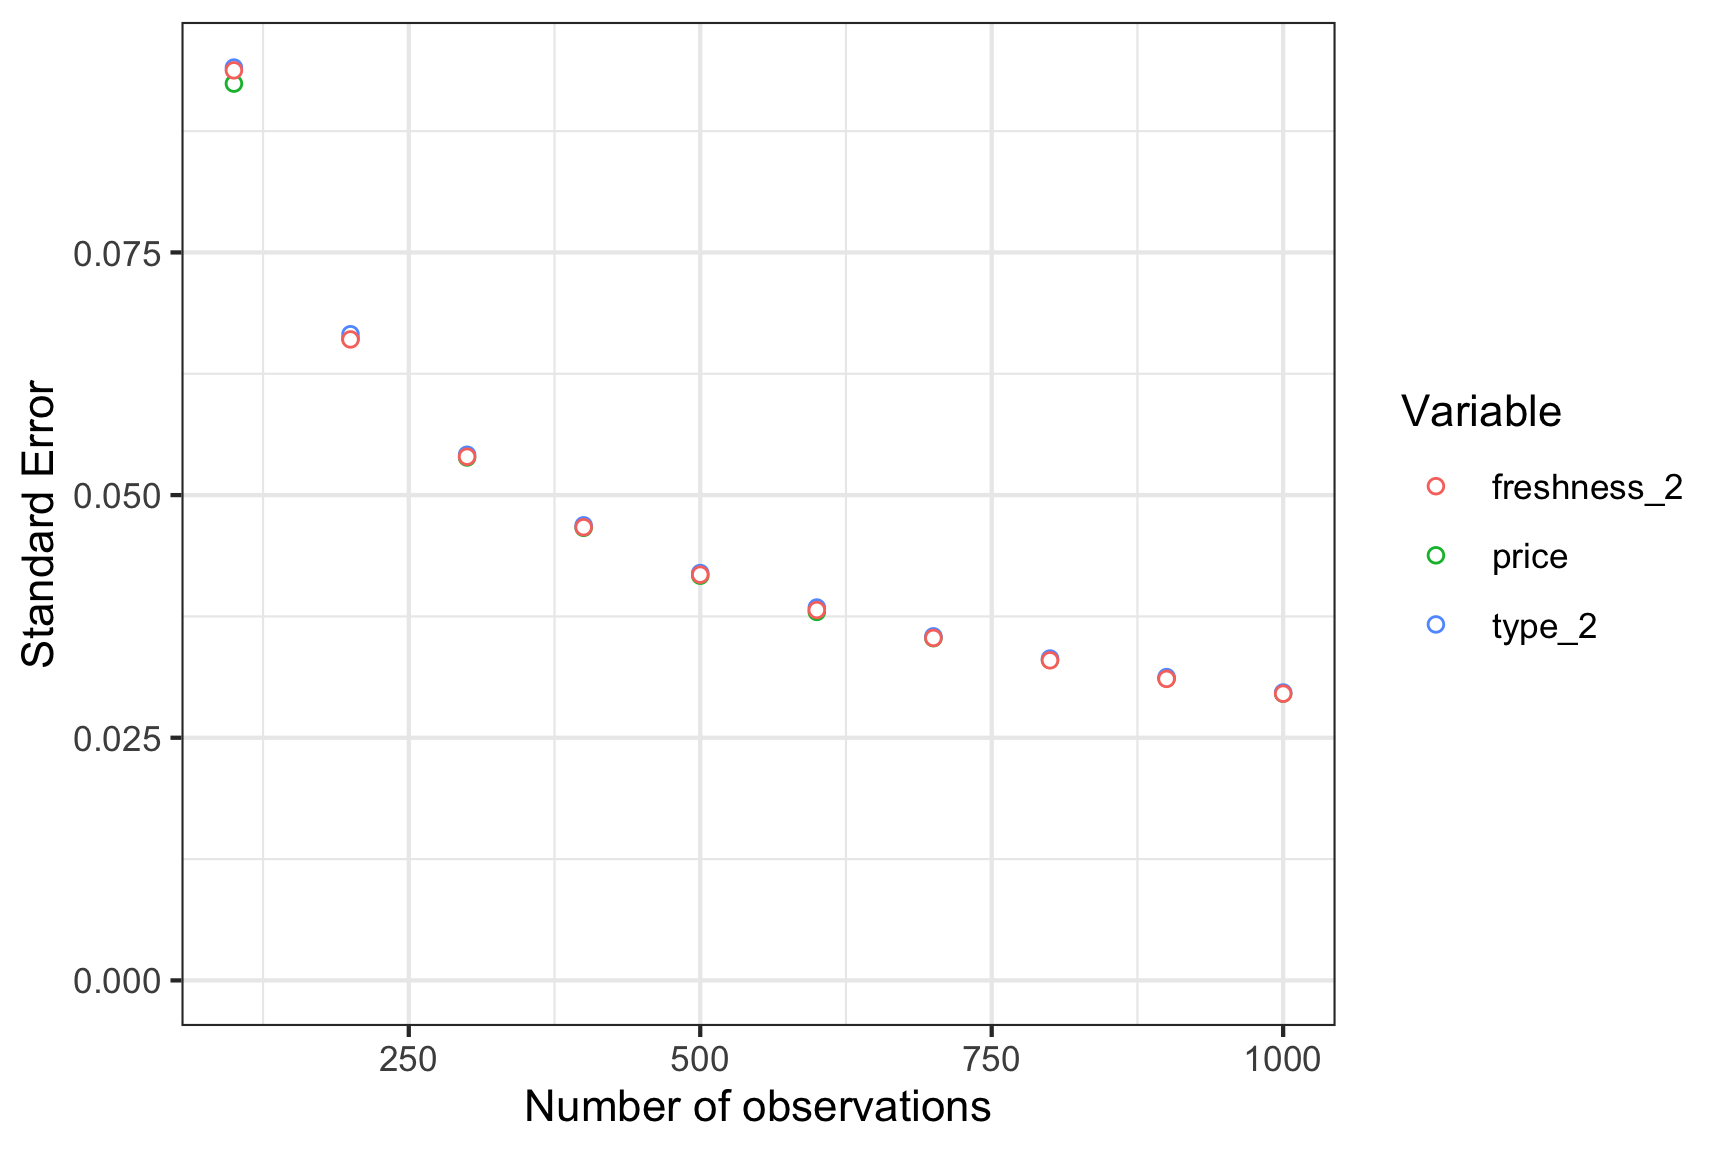
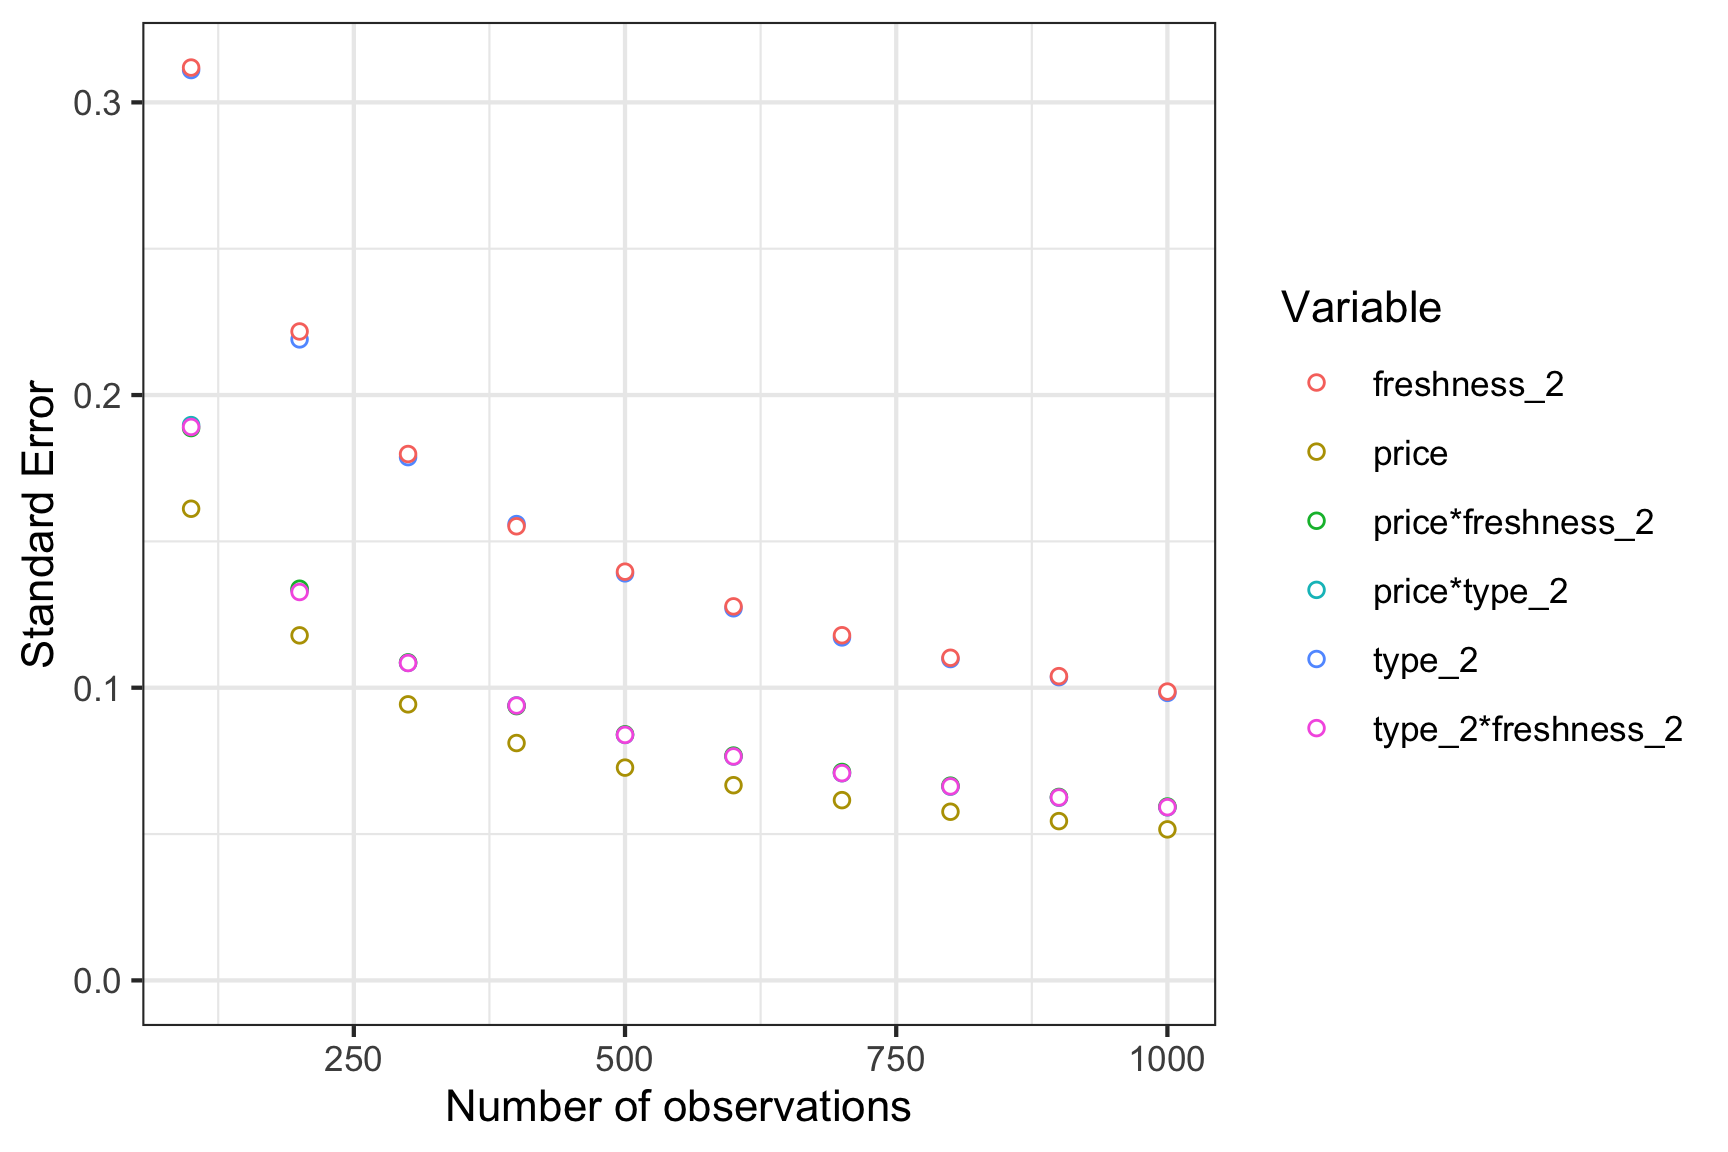
updated documentation for v0.0.2 release

diff --git a/README.md b/README.md
@@ -137,18 +137,19 @@ results <- sampleSizer(
     survey   = survey,
     parNames = c('price', 'type', 'freshness'),
     parTypes = c('c', 'd', 'd'), # Set continuous vs. discrete variables
+    interactions = TRUE, # Add interactions between each attribute
     nbreaks  = 10
 )
 
 # Preview results
 head(results)
-#>   size         se        coef
-#> 1  100 0.09239510       price
-#> 2  100 0.09404767      type_2
-#> 3  100 0.09376153 freshness_2
-#> 4  200 0.06612120       price
-#> 5  200 0.06657439      type_2
-#> 6  200 0.06603612 freshness_2
+#>   size        se               coef
+#> 1  100 0.1611530              price
+#> 2  100 0.3110412             type_2
+#> 3  100 0.3118941        freshness_2
+#> 4  100 0.1897302       price*type_2
+#> 5  100 0.1887158  price*freshness_2
+#> 6  100 0.1891048 type_2*freshness_2
 ```
 
 View a plot of the results
@@ -170,12 +171,12 @@ ggplot(results) +
 ## Version and License Information
 
   - Date First Written: *October 23, 2020*
-  - Most Recent Update: December 06 2020
+  - Most Recent Update: December 09 2020
   - License:
     [MIT](https://github.com/jhelvy/conjointTools/blob/master/LICENSE.md)
   - [Latest
     Release](https://github.com/jhelvy/conjointTools/releases/latest):
-    0.0.1
+    0.0.2
 
 ## Citation Information
 
@@ -188,16 +189,16 @@ citation("conjointTools")
 #> 
 #> To cite conjointTools in publications use:
 #> 
-#>   John Paul Helveston. conjointTools: Tools for designing conjoint
-#>   survey experiments. (2020)
+#>   John Paul Helveston, Martin Lukac, Alberto Stefanelli (2020).
+#>   conjointTools: Tools For Designing Conjoint Survey Experiments.
 #> 
 #> A BibTeX entry for LaTeX users is
 #> 
 #>   @Manual{,
-#>     title = {conjointTools: Tools for designing conjoint survey experiments.},
-#>     author = {John Paul Helveston},
+#>     title = {conjointTools: Tools For Designing Conjoint Survey Experiments},
+#>     author = {John Paul Helveston and Martin Lukac and Alberto Stefanelli},
 #>     year = {2020},
-#>     note = {R package version 0.0.1},
+#>     note = {R package version 0.0.2},
 #>     url = {https://jhelvy.github.io/conjointTools/},
 #>   }
 ```

diff --git a/NEWS.md b/NEWS.md
@@ -1,11 +1,27 @@
+
+# conjointTools 0.0.2
+
+Interactions!
+
+## Summary of larger updates:
+
+- Added support for creating interactions among variables
+- Removed summary plot function to drop ggplot dependencies
+
+## Summary of smaller updates:
+
+- Added a few new examples on how to use the interactions argument.
+
+
+
 # conjointTools 0.0.1
 
-* Created new functions for creating different experiment designs:
+- Created new functions for creating different experiment designs:
     - Full factorial
     - "D", "A", and "I" optimal designs
-* Modified previous functions for creating a coded survey from a given experiment design
-* Changed the output of the sampleSizer function to show the sample size (rather than the number of observations, which can be different since respondents may answer more than one choice question).
+- Modified previous functions for creating a coded survey from a given experiment design
+- Changed the output of the sampleSizer function to show the sample size (rather than the number of observations, which can be different since respondents may answer more than one choice question).
 
 # conjointTools 0.0.0.9000
 
-* Added a `NEWS.md` file to track changes to the package.
+- Added a `NEWS.md` file to track changes to the package.
